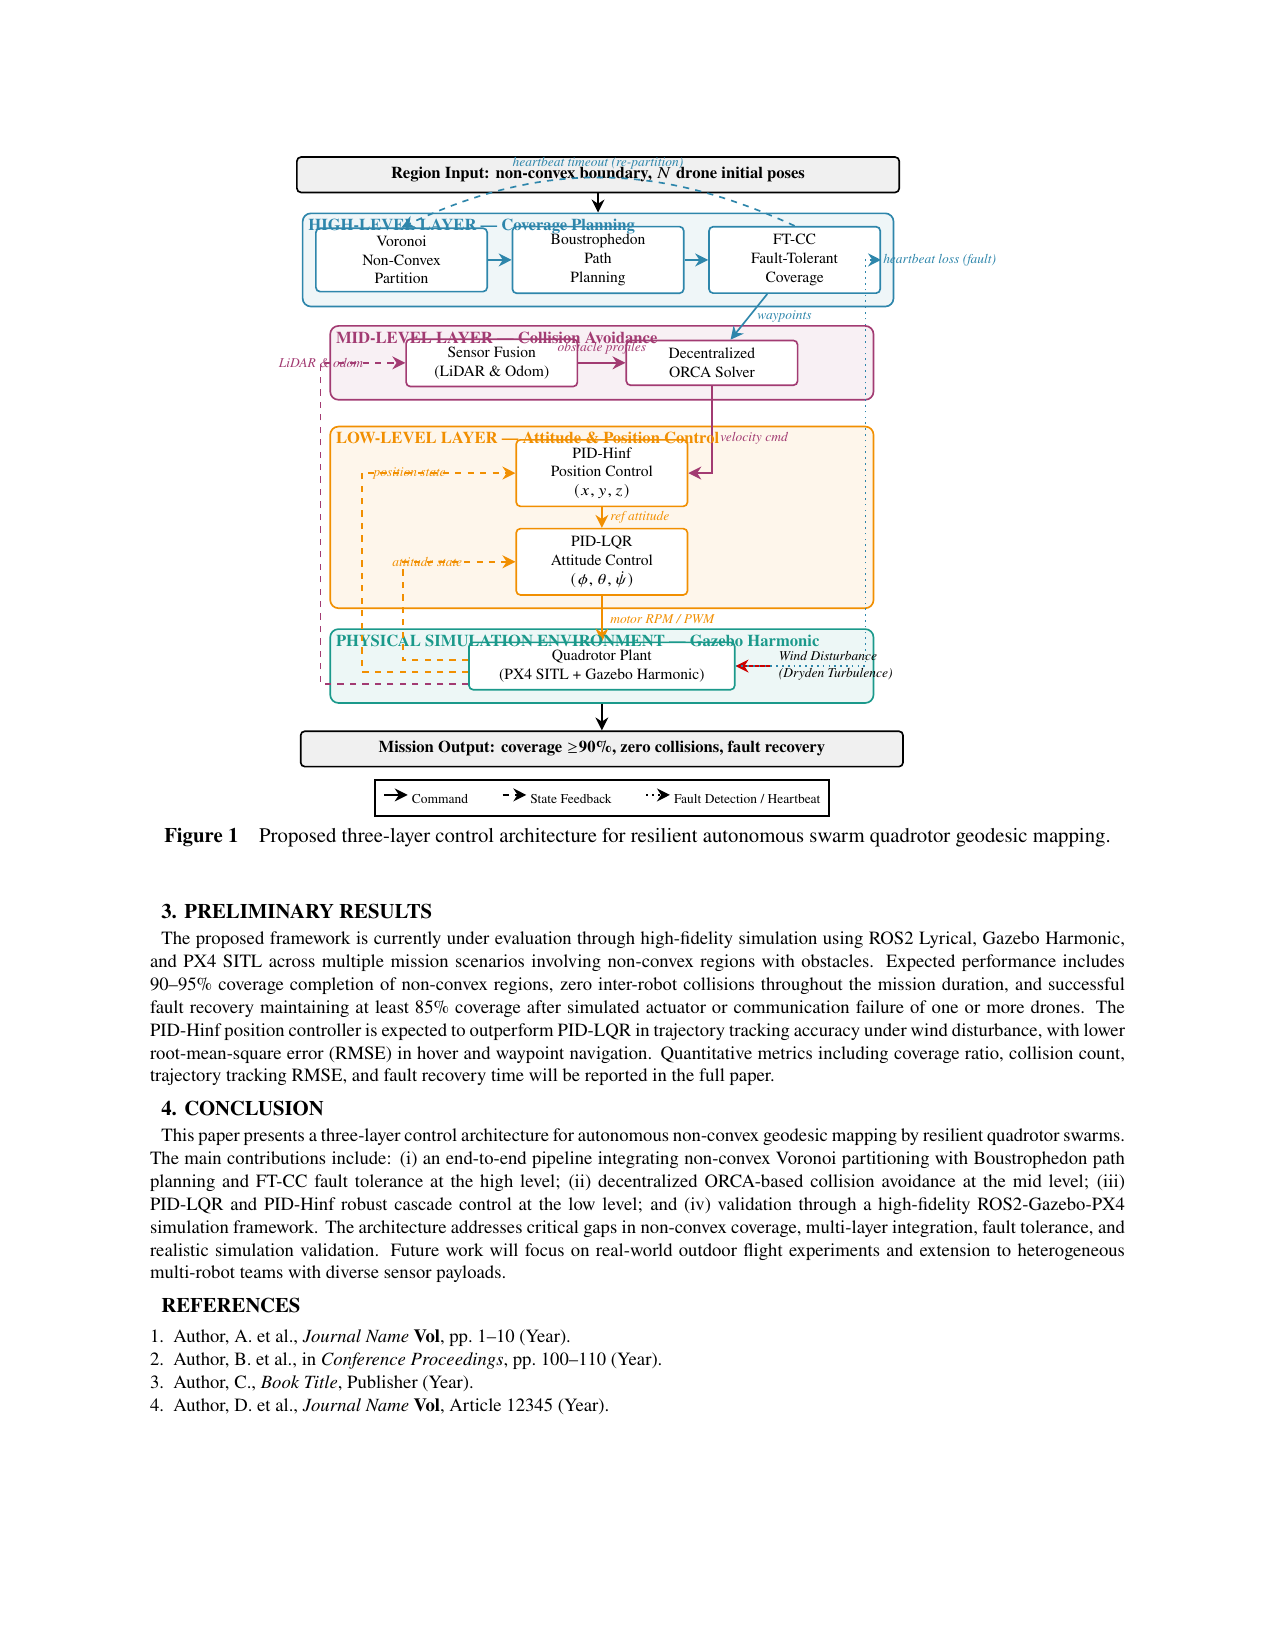
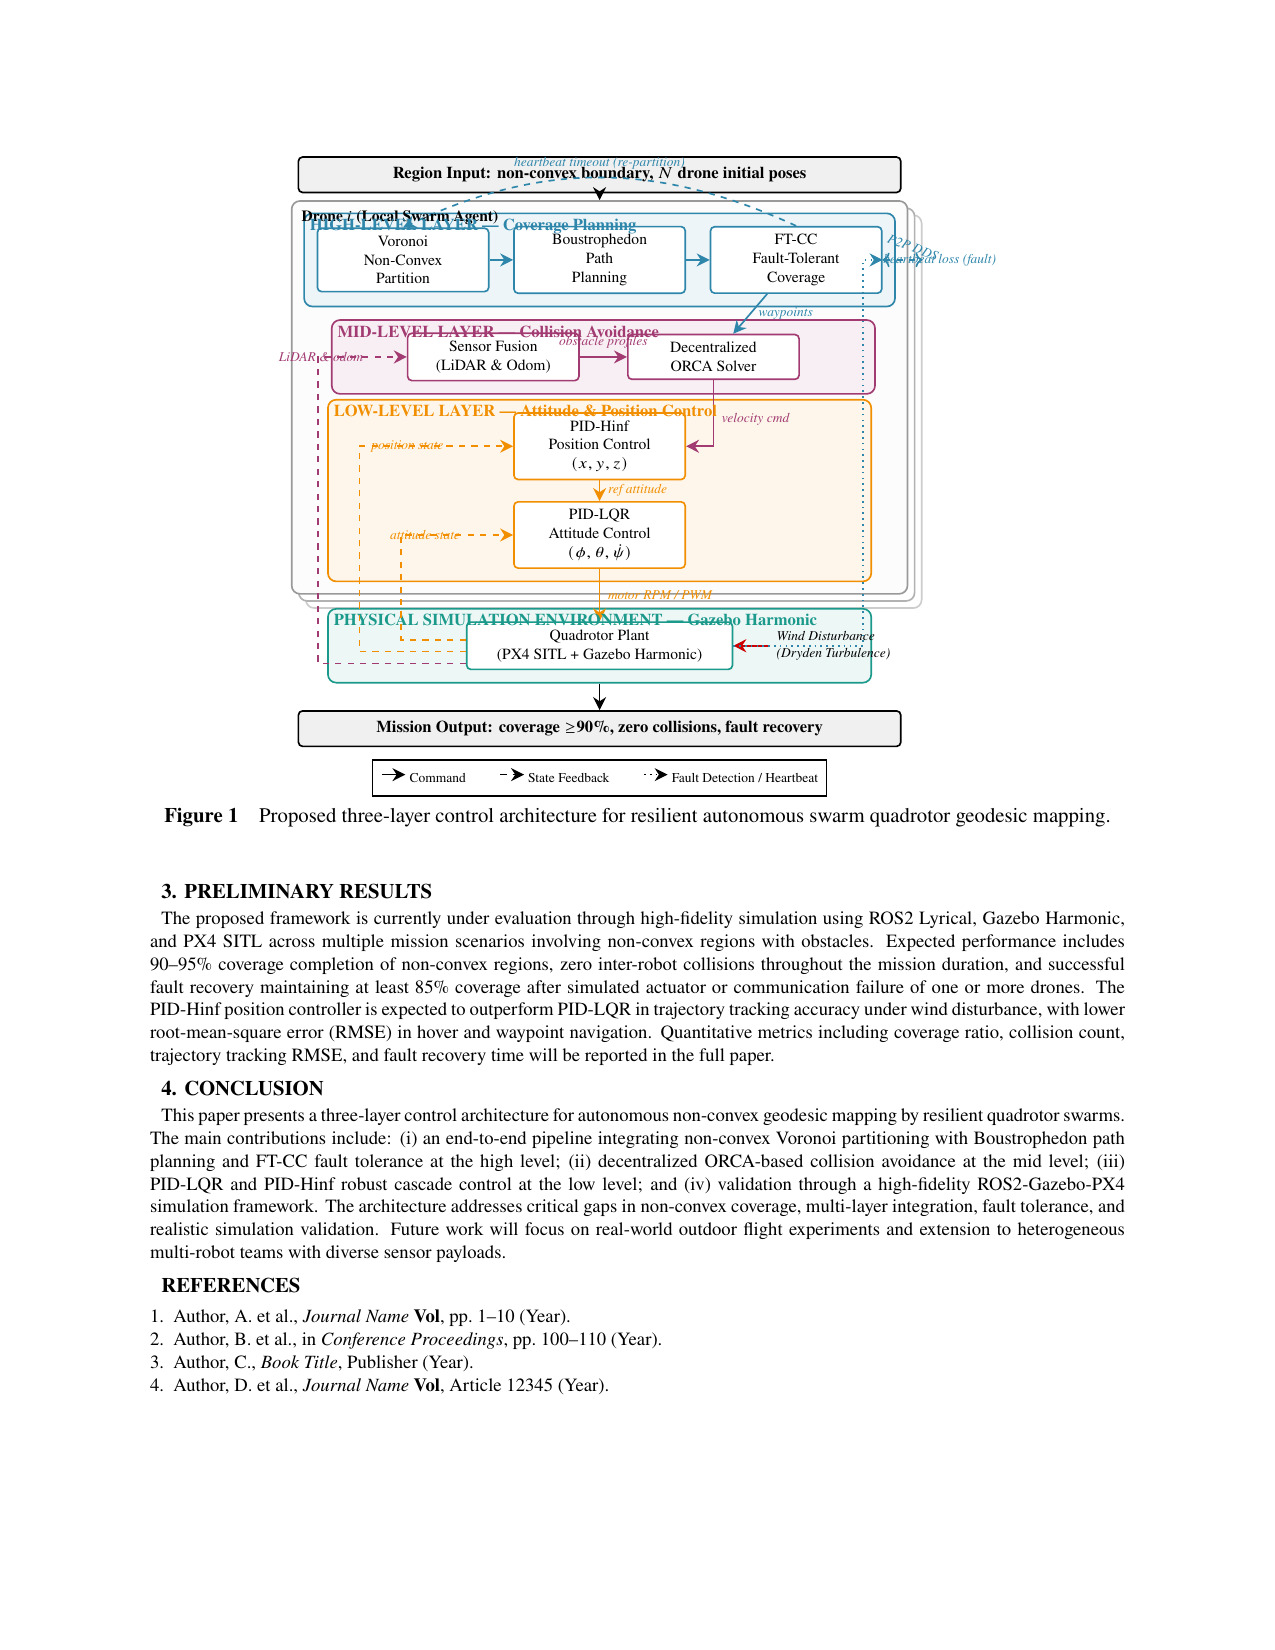
refactor: update architecture diagram to visualize drone swarm hierarchy and P2P communication links

Changed region(s): [[0.1224, 0.0927, 0.8871, 0.8655], [0.2141, 0.4327, 0.2447, 0.4636]]

diff --git a/docs/Abstract-Epic/swarm_geodesy_epic2026.tex b/docs/Abstract-Epic/swarm_geodesy_epic2026.tex
@@ -197,7 +197,7 @@ trigger coverage redistribution.
             node distance=0.1cm and 0.4cm,
             box/.style={draw,thick,minimum width=2.9cm,minimum height=0.7cm,
                         align=center,fill=white,font=\fontsize{7.5}{9}\selectfont, rounded corners=2pt},
-            layer/.style={draw,thick,rounded corners,inner sep=6pt, fill opacity=0.08, text opacity=1.0, minimum width=9.2cm},
+            layer/.style={draw,thick,rounded corners,inner sep=6pt, minimum width=9.2cm},
             arr/.style={-{Stealth[length=2.2mm,width=2.2mm]},thick},
             darr/.style={-{Stealth[length=2.2mm,width=2.2mm]},thick,dashed},
             faultarr/.style={-{Stealth[length=2.2mm,width=2.2mm]},thick,dotted},
@@ -233,16 +233,9 @@ trigger coverage redistribution.
             % Self-healing path-recalculation / re-partitioning loop
             \draw[darr,high,bend right=25] (ftcc.north) to node[midway,above,lbl] {heartbeat timeout (re-partition)} (voronoi.north);
 
-            % Fit High-Level Layer Background
-            \begin{scope}[on background layer]
-                  \node[layer,fill=high,draw=high,fit=(voronoi) (ftcc) (boustro)] (hl) {};
-            \end{scope}
-            \node[anchor=north west,font=\fontsize{8}{10}\bfseries\color{high},inner sep=3pt]
-            at (hl.north west) {HIGH-LEVEL LAYER --- Coverage Planning};
-
             % --------  MID-LEVEL LAYER COMPONENTS  --------
             % Split ORCA block into Sensor Fusion and ORCA Solver
-            \node[box,draw=mid,below=0.75cm of boustro,xshift=-1.8cm] (fusion)
+            \node[box,draw=mid,below=0.65cm of boustro,xshift=-1.8cm] (fusion)
             {Sensor Fusion\\(LiDAR \& Odom)};
 
             \node[box,draw=mid,right=0.8cm of fusion] (orca)
@@ -254,16 +247,9 @@ trigger coverage redistribution.
             % High-Level waypoints link to ORCA (as pref_vel)
             \draw[arr,high] (ftcc) -- node[right,lbl] {waypoints} (orca);
 
-            % Fit Mid-Level Layer Background
-            \begin{scope}[on background layer]
-                  \node[layer,fill=mid,draw=mid,fit=(fusion) (orca)] (ml) {};
-            \end{scope}
-            \node[anchor=north west,font=\fontsize{8}{10}\bfseries\color{mid},inner sep=3pt]
-            at (ml.north west) {MID-LEVEL LAYER --- Collision Avoidance};
-
             % --------  LOW-LEVEL LAYER COMPONENTS  --------
             % Cascaded position and attitude control loops
-            \node[box,draw=low,below=0.65cm of ml] (pidhinf)
+            \node[box,draw=low,below=2.0cm of boustro] (pidhinf)
             {PID-Hinf\\Position Control\\$(x,y,z)$};
 
             \node[box,draw=low,below=0.35cm of pidhinf] (pidlqr)
@@ -275,15 +261,36 @@ trigger coverage redistribution.
             % Cascade commands
             \draw[arr,low] (pidhinf) -- node[right,lbl] {ref attitude} (pidlqr);
 
-            % Fit Low-Level Layer Background
+            % Fit the Outer Drone Swarm Containers (stacked)
             \begin{scope}[on background layer]
-                  \node[layer,fill=low,draw=low,fit=(pidhinf) (pidlqr)] (ll) {};
+                  % Drone N (Backmost)
+                  \node[draw=gray!40,thick,fill=white,rounded corners=4pt,fit=(voronoi) (ftcc) (pidlqr),inner sep=12pt,xshift=0.24cm,yshift=-0.24cm] (drone_n) {};
+                  \node[anchor=north west,font=\fontsize{7}{8.5}\bfseries\color{gray!60},xshift=0.24cm,yshift=-0.24cm] at (drone_n.north west) {Drone $N$};
+
+                  % Drone 2 (Middle)
+                  \node[draw=gray!60,thick,fill=white,rounded corners=4pt,fit=(voronoi) (ftcc) (pidlqr),inner sep=12pt,xshift=0.12cm,yshift=-0.12cm] (drone_2) {};
+                  \node[anchor=north west,font=\fontsize{7}{8.5}\bfseries\color{gray!80},xshift=0.12cm,yshift=-0.12cm] at (drone_2.north west) {Drone 2};
+
+                  % Drone i (Frontmost)
+                  \node[draw=gray!80,thick,fill=gray!2,rounded corners=4pt,fit=(voronoi) (ftcc) (pidlqr),inner sep=12pt] (drone_1) {};
             \end{scope}
-            \node[anchor=north west,font=\fontsize{8}{10}\bfseries\color{low},inner sep=3pt]
-            at (ll.north west) {LOW-LEVEL LAYER --- Attitude \& Position Control};
+            \node[anchor=north west,font=\fontsize{7.5}{9}\bfseries\color{black},inner sep=5pt] at (drone_1.north west) {Drone $i$ (Local Swarm Agent)};
+
+            % Fit Layer Backgrounds (drawn on top of the Drone i background)
+            \begin{scope}[on background layer]
+                  \node[layer,fill=high!8,draw=high,fit=(voronoi) (ftcc) (boustro)] (hl) {};
+                  \node[layer,fill=mid!8,draw=mid,fit=(fusion) (orca)] (ml) {};
+                  \node[layer,fill=low!8,draw=low,fit=(pidhinf) (pidlqr)] (ll) {};
+            \end{scope}
+            \node[anchor=north west,font=\fontsize{8}{10}\bfseries\color{high},inner sep=3pt] at (hl.north west) {HIGH-LEVEL LAYER --- Coverage Planning};
+            \node[anchor=north west,font=\fontsize{8}{10}\bfseries\color{mid},inner sep=3pt] at (ml.north west) {MID-LEVEL LAYER --- Collision Avoidance};
+            \node[anchor=north west,font=\fontsize{8}{10}\bfseries\color{low},inner sep=3pt] at (ll.north west) {LOW-LEVEL LAYER --- Attitude \& Position Control};
+
+            % P2P DDS Mesh network communication between High-Level layers
+            \draw[darr,high,<->] (ftcc.east) -- node[above,lbl,pos=0.65,rotate=-20] {P2P DDS} (drone_n.east |- ftcc.east);
 
             % --------  PHYSICAL SIMULATION LAYER  --------
-            \node[box,draw=sim,minimum width=4.5cm,below=0.55cm of ll] (plant)
+            \node[box,draw=sim,minimum width=4.5cm,below=0.45cm of drone_1.south] (plant)
             {Quadrotor Plant\\(PX4 SITL + Gazebo Harmonic)};
 
             % Command input to motor
@@ -295,7 +302,7 @@ trigger coverage redistribution.
 
             % Fit Simulation Layer Background
             \begin{scope}[on background layer]
-                  \node[layer,fill=sim,draw=sim,fit=(plant)] (simlayer) {};
+                  \node[layer,fill=sim!8,draw=sim,fit=(plant)] (simlayer) {};
             \end{scope}
             \node[anchor=north west,font=\fontsize{8}{10}\bfseries\color{sim},inner sep=3pt]
             at (simlayer.north west) {PHYSICAL SIMULATION ENVIRONMENT --- Gazebo Harmonic};
@@ -306,7 +313,7 @@ trigger coverage redistribution.
             {Mission Output: coverage $\geq$90\%, zero collisions, fault recovery};
 
             % Connect Input and Output
-            \draw[arr] (input.south) -- (hl.north);
+            \draw[arr] (input.south) -- (drone_1.north);
             \draw[arr] (simlayer.south) -- (output.north);
 
             % --------  FEEDBACK PATHS (LEFT SIDE - POSITION/ATTITUDE/SENSORS)  --------
